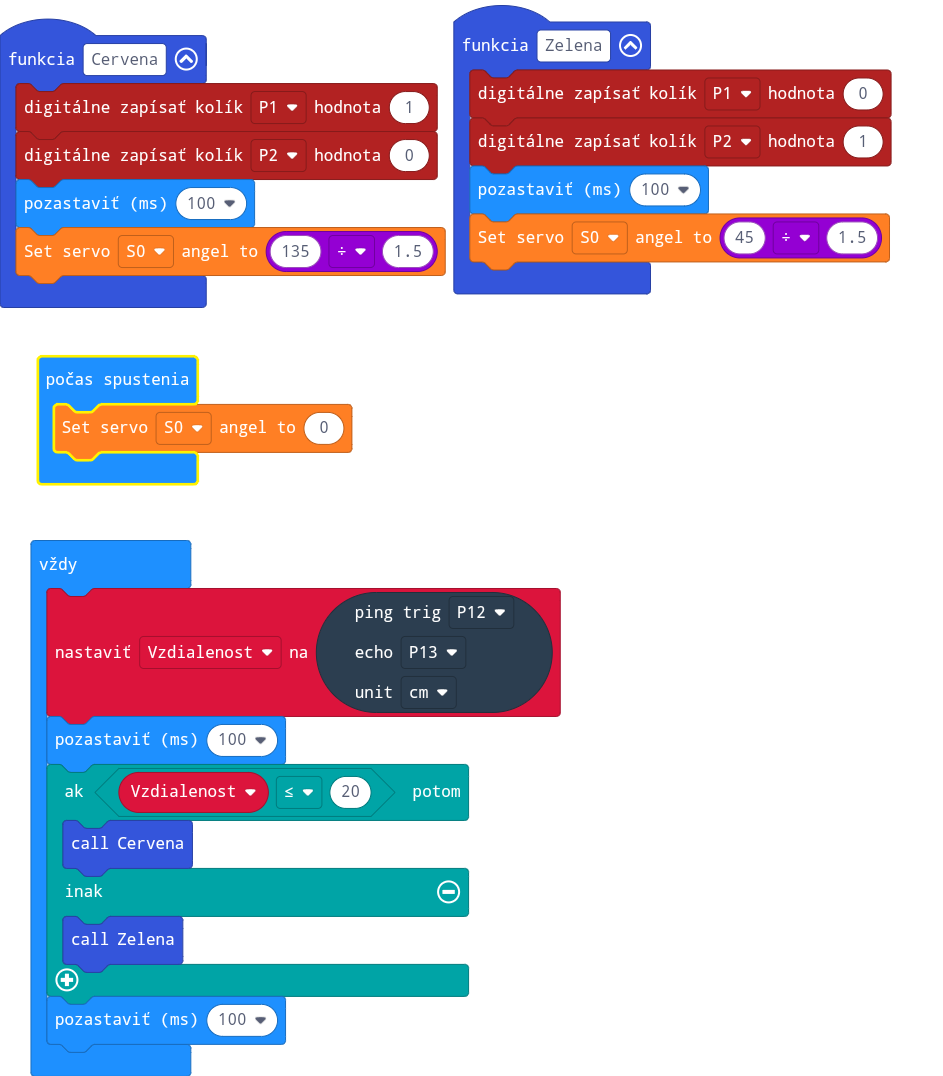
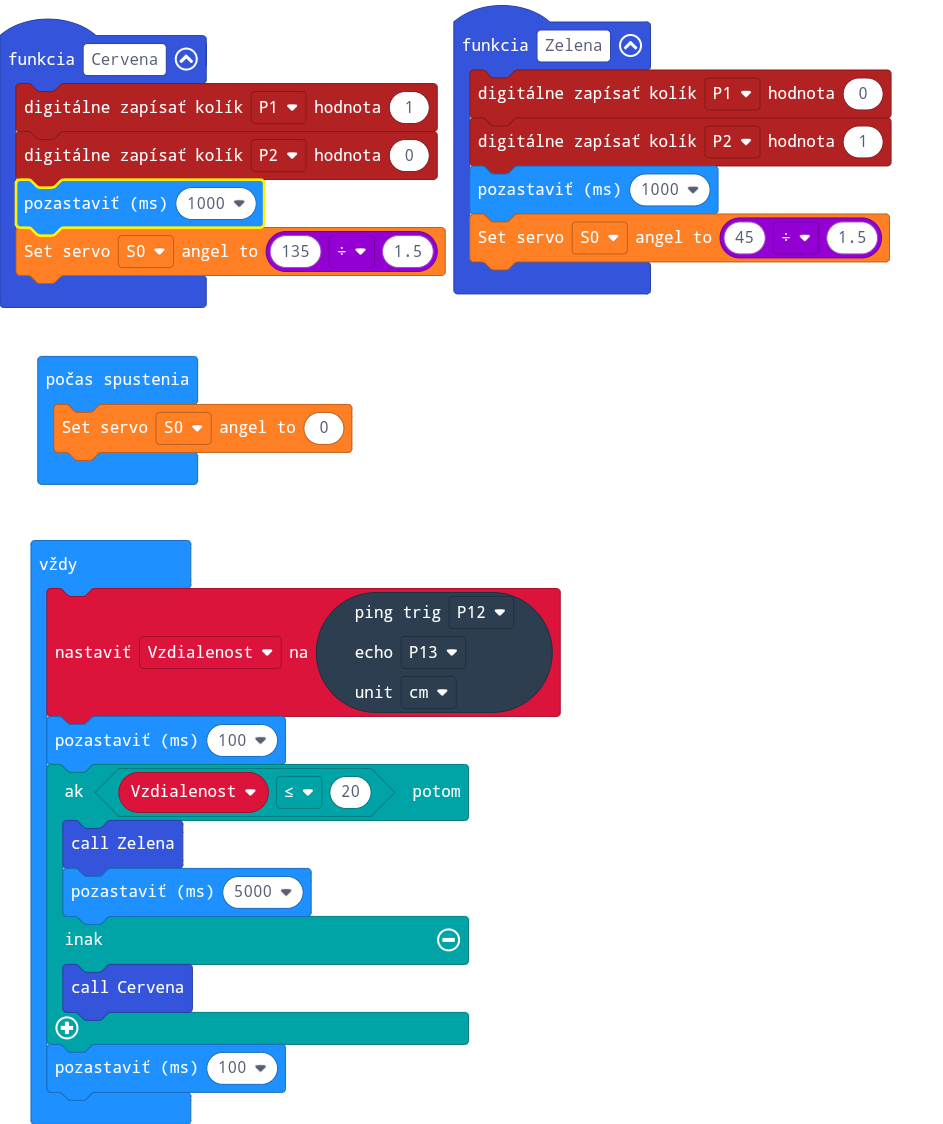
Update main.blocks, main.ts

Changed region(s): [[0.0, 0.0, 0.9533, 0.9814]]

diff --git a/main.ts b/main.ts
@@ -1,13 +1,13 @@
 function Zelena () {
     pins.digitalWritePin(DigitalPin.P1, 0)
     pins.digitalWritePin(DigitalPin.P2, 1)
-    basic.pause(100)
+    basic.pause(1000)
     wuKong.setServoAngel(wuKong.ServoList.S0, 45 / 1.5)
 }
 function Cervena () {
     pins.digitalWritePin(DigitalPin.P1, 1)
     pins.digitalWritePin(DigitalPin.P2, 0)
-    basic.pause(100)
+    basic.pause(1000)
     wuKong.setServoAngel(wuKong.ServoList.S0, 135 / 1.5)
 }
 let Vzdialenost = 0
@@ -20,9 +20,10 @@ basic.forever(function () {
     )
     basic.pause(100)
     if (Vzdialenost <= 20) {
-        Cervena()
-    } else {
         Zelena()
+        basic.pause(5000)
+    } else {
+        Cervena()
     }
     basic.pause(100)
 })
